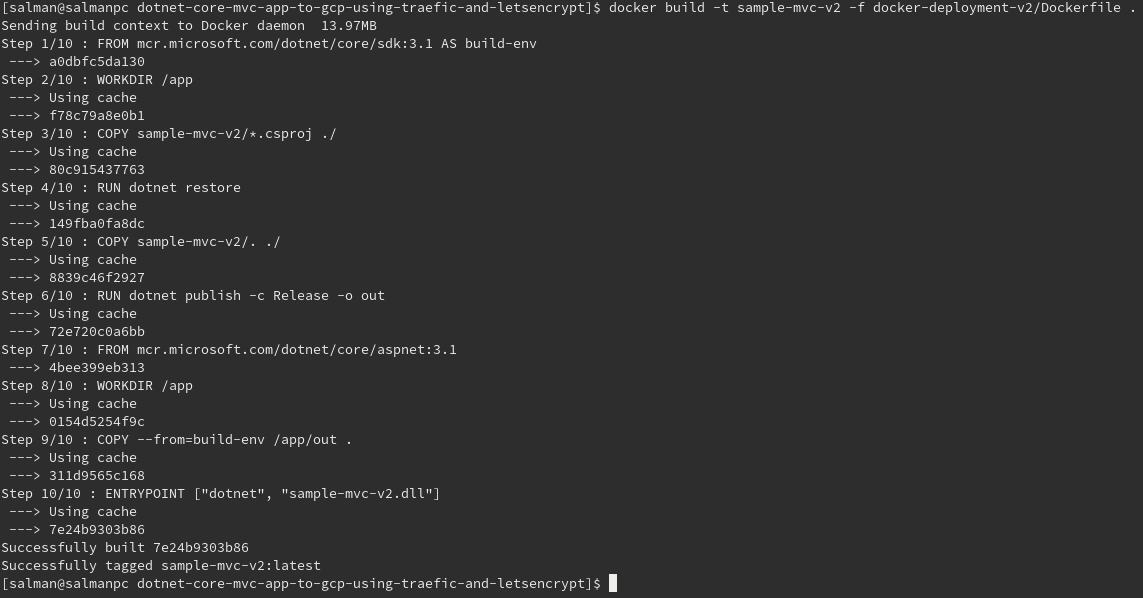
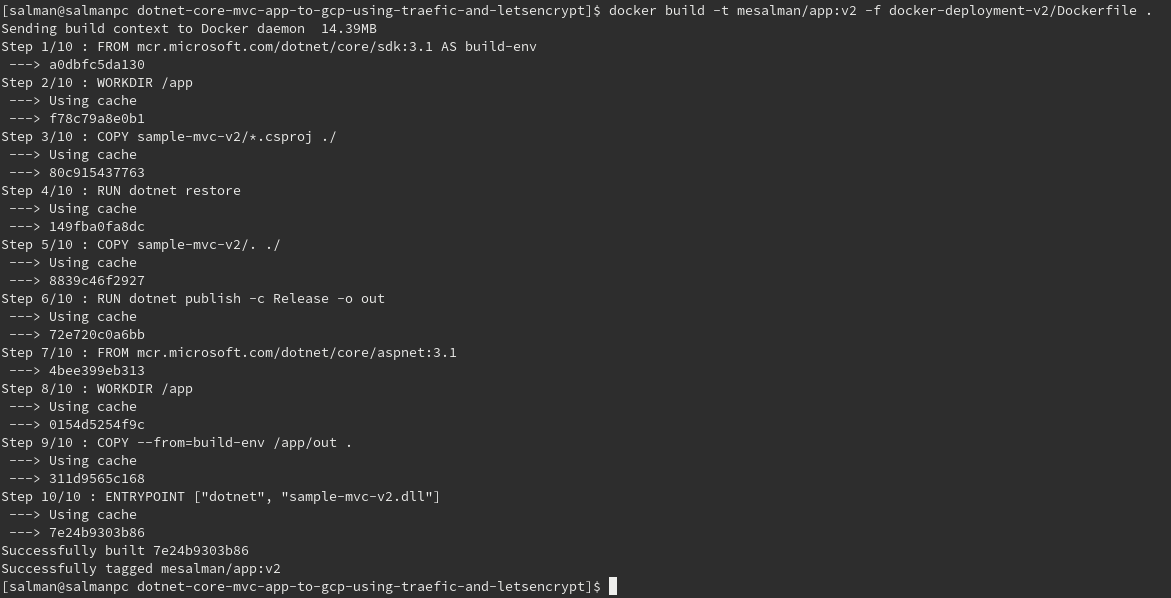
updates readme

Changed region(s): [[0.0, 0.0, 0.9799, 0.9933]]

diff --git a/README.md b/README.md
@@ -93,16 +93,16 @@ docker build -t mesalman/app:v1 -f docker-deployment-v1/Dockerfile .
 docker build -t mesalman/app:v2 -f docker-deployment-v2/Dockerfile .
 ```
 
-This will create 2 docker images tagged with "sample-mvc-v1:latest" and "sample-mvc-v2:latest". See below.
+This will create 2 docker images tagged with "mesalman/app:v1" and "mesalman/app:v2". See below.
 
 
-**Docker image for sample-mvc-v1**
+**Docker image for mesalman/app:v1**
 
 | ![images/imagev1.png](images/imagev1.png) |
 | ------------------------------------------------------------------- |
 
 
-**Docker image for sample-mvc-v2**
+**Docker image for mesalman/app:v2**
 
 | ![images/imagev2.png](images/imagev2.png) |
 | ------------------------------------------------------------------- |
@@ -135,7 +135,7 @@ To push the images to dockerhub use following commands on terminal
 
 ```
 docker push mesalman/app:v1
-docker push mesalman/app:v1
+docker push mesalman/app:v2
 ```
 
 
